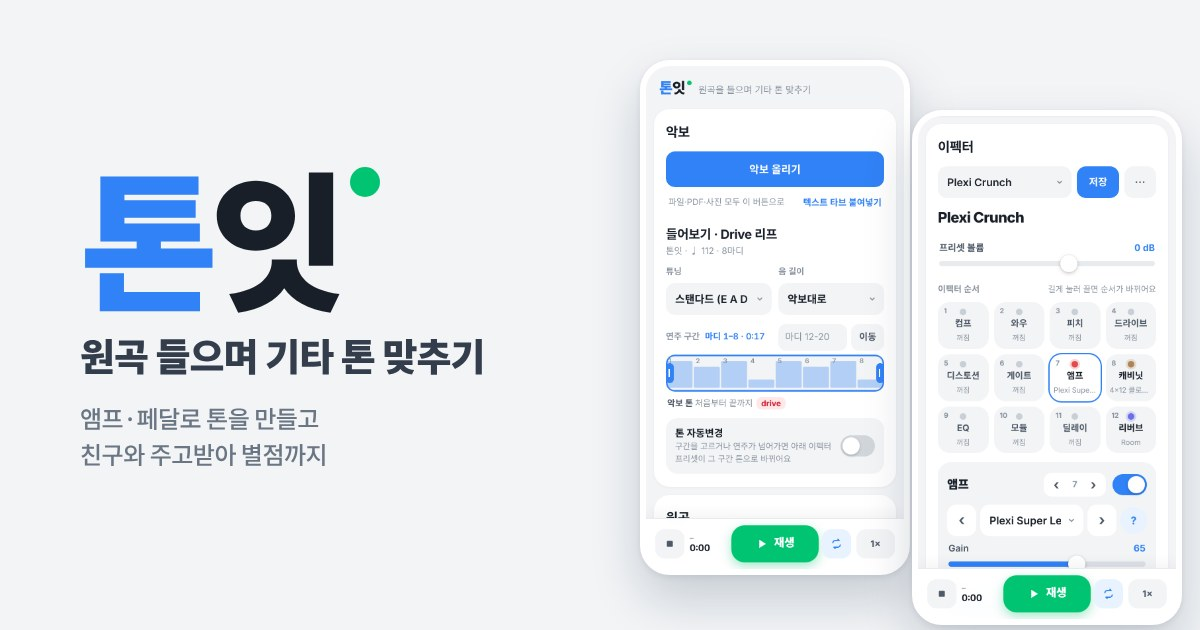
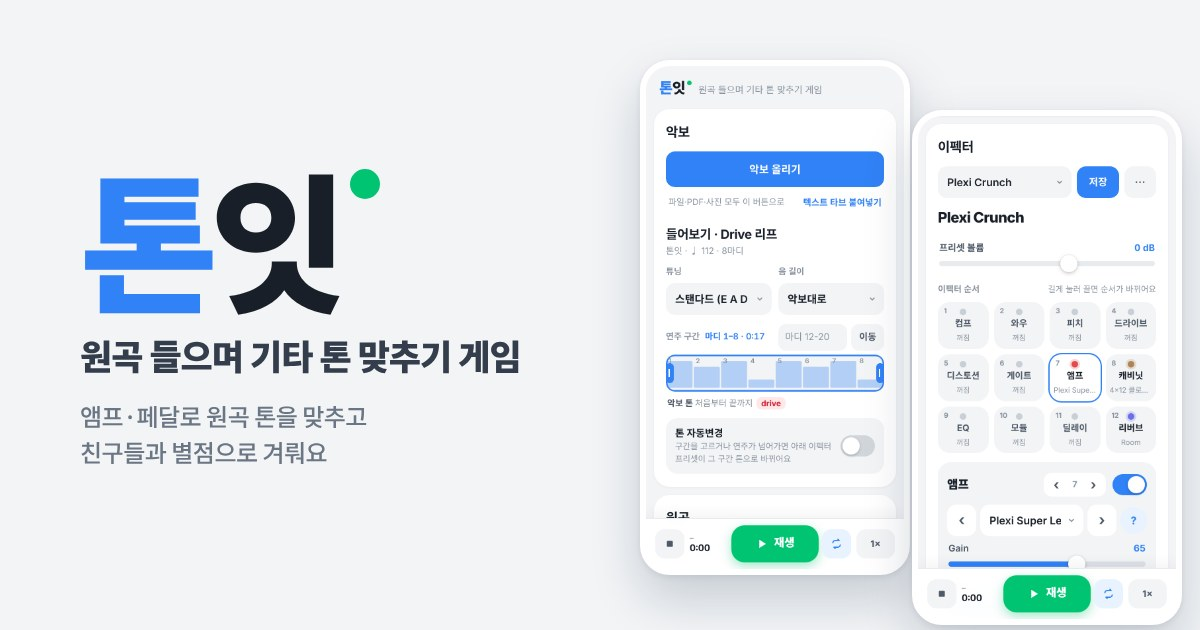
소개 문구를 '맞추기 게임'으로
사이트 제목·머리말·링크 미리보기(사진 포함)·README를
'원곡 들으며 기타 톤 맞추기 게임', '친구들과 별점으로 겨뤄요'로 바꿨어요.
미리보기 사진 주소에 ?v=2를 붙여 카톡이 예전 사진을 다시 쓰지 않게 했어요.

Claude-Session: https://claude.ai/code/session_01VmpYqCzzeVuYATrWxHJuta

diff --git a/index.html b/index.html
@@ -4,28 +4,28 @@
 <meta charset="utf-8">
 <meta name="viewport" content="width=device-width, initial-scale=1, viewport-fit=cover">
 <meta name="theme-color" content="#f2f4f6">
-<title>톤잇 · 원곡 들으며 기타 톤 맞추기</title>
+<title>톤잇 · 원곡 들으며 기타 톤 맞추기 게임</title>
 <meta name="apple-mobile-web-app-title" content="톤잇">
 <meta name="application-name" content="톤잇">
 <meta name="theme-color" content="#f2f4f6">
 <link rel="apple-touch-icon" href="apple-touch-icon.png">
 <link rel="icon" type="image/png" sizes="32x32" href="favicon-32.png">
 <link rel="manifest" href="manifest.webmanifest">
-<meta name="description" content="원곡을 들으며 기타 톤을 맞추고, 만든 톤을 친구와 주고받아 별점을 매기는 웹 게임">
+<meta name="description" content="원곡을 들으며 기타 톤을 맞추고, 만든 톤을 친구와 주고받아 별점으로 겨루는 웹 게임">
 <meta property="og:type" content="website">
 <meta property="og:site_name" content="톤잇">
-<meta property="og:title" content="톤잇 · 원곡 들으며 기타 톤 맞추기">
-<meta property="og:description" content="앰프·페달로 톤을 만들고 친구와 주고받아 별점까지">
+<meta property="og:title" content="톤잇 · 원곡 들으며 기타 톤 맞추기 게임">
+<meta property="og:description" content="앰프·페달로 원곡 톤을 맞추고, 친구들과 별점으로 겨뤄요">
 <meta property="og:url" content="https://aapplloo.github.io/toneit/">
-<meta property="og:image" content="https://aapplloo.github.io/toneit/og.jpg">
+<meta property="og:image" content="https://aapplloo.github.io/toneit/og.jpg?v=2">
 <meta property="og:image:width" content="1200">
 <meta property="og:image:height" content="630">
 <meta property="og:image:alt" content="톤잇 로고와 앱 화면">
 <meta property="og:locale" content="ko_KR">
 <meta name="twitter:card" content="summary_large_image">
-<meta name="twitter:title" content="톤잇 · 원곡 들으며 기타 톤 맞추기">
-<meta name="twitter:description" content="앰프·페달로 톤을 만들고 친구와 주고받아 별점까지">
-<meta name="twitter:image" content="https://aapplloo.github.io/toneit/og.jpg">
+<meta name="twitter:title" content="톤잇 · 원곡 들으며 기타 톤 맞추기 게임">
+<meta name="twitter:description" content="앰프·페달로 원곡 톤을 맞추고, 친구들과 별점으로 겨뤄요">
+<meta name="twitter:image" content="https://aapplloo.github.io/toneit/og.jpg?v=2">
 <style>
 /* 톤잇 (ToneIt) — light, rounded "money app" style: gray page, white cards, one blue accent, green play button. */
 :root {
@@ -378,7 +378,7 @@ button, summary, .seg, .chain, .dock, .btn, .tonetag, .th, .lmain, .mini { -webk
 <body>
 <header class="top">
   <div class="brand">톤잇</div>
-  <p class="tagline">원곡을 들으며 기타 톤 맞추기</p>
+  <p class="tagline">원곡 들으며 기타 톤 맞추기 게임</p>
 </header>
 
 <main class="layout">

diff --git a/README.md b/README.md
@@ -1,6 +1,6 @@
 # 톤잇 (ToneIt)
 
-원곡을 들으며 기타 톤을 맞추는 웹 게임이에요.
+원곡을 들으며 기타 톤을 맞추는 게임이에요. 만든 톤은 친구들과 주고받고 별점으로 겨뤄요.
 
 - 악보(Guitar Pro · PDF · 텍스트 타브 · 사진)를 올리면 가상 기타가 연주해요.
 - 앰프·캐비닛·페달 40여 종으로 톤을 만들고, 원곡과 섞어 들으며 맞춰요.
